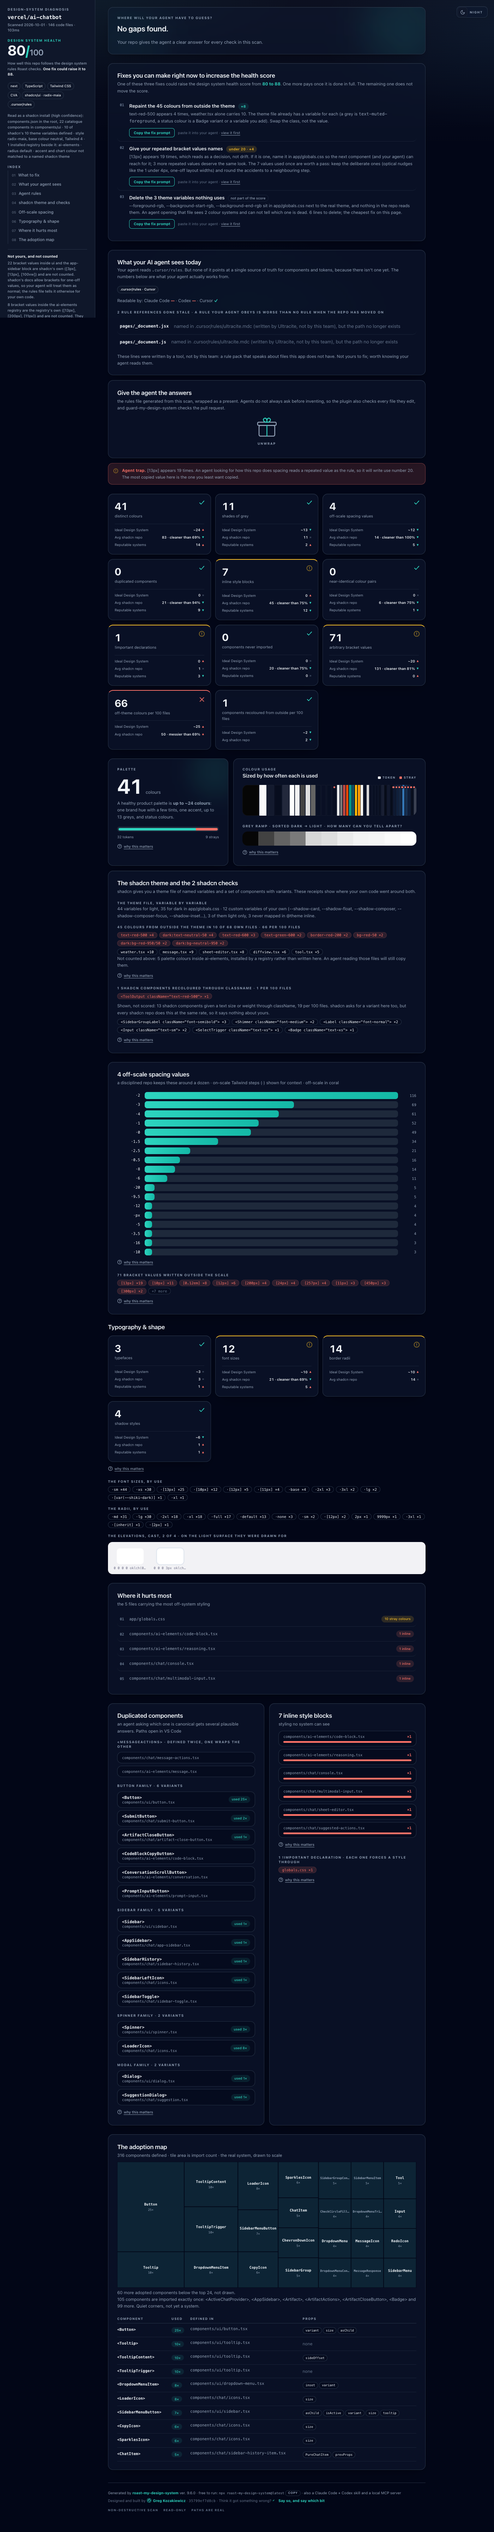
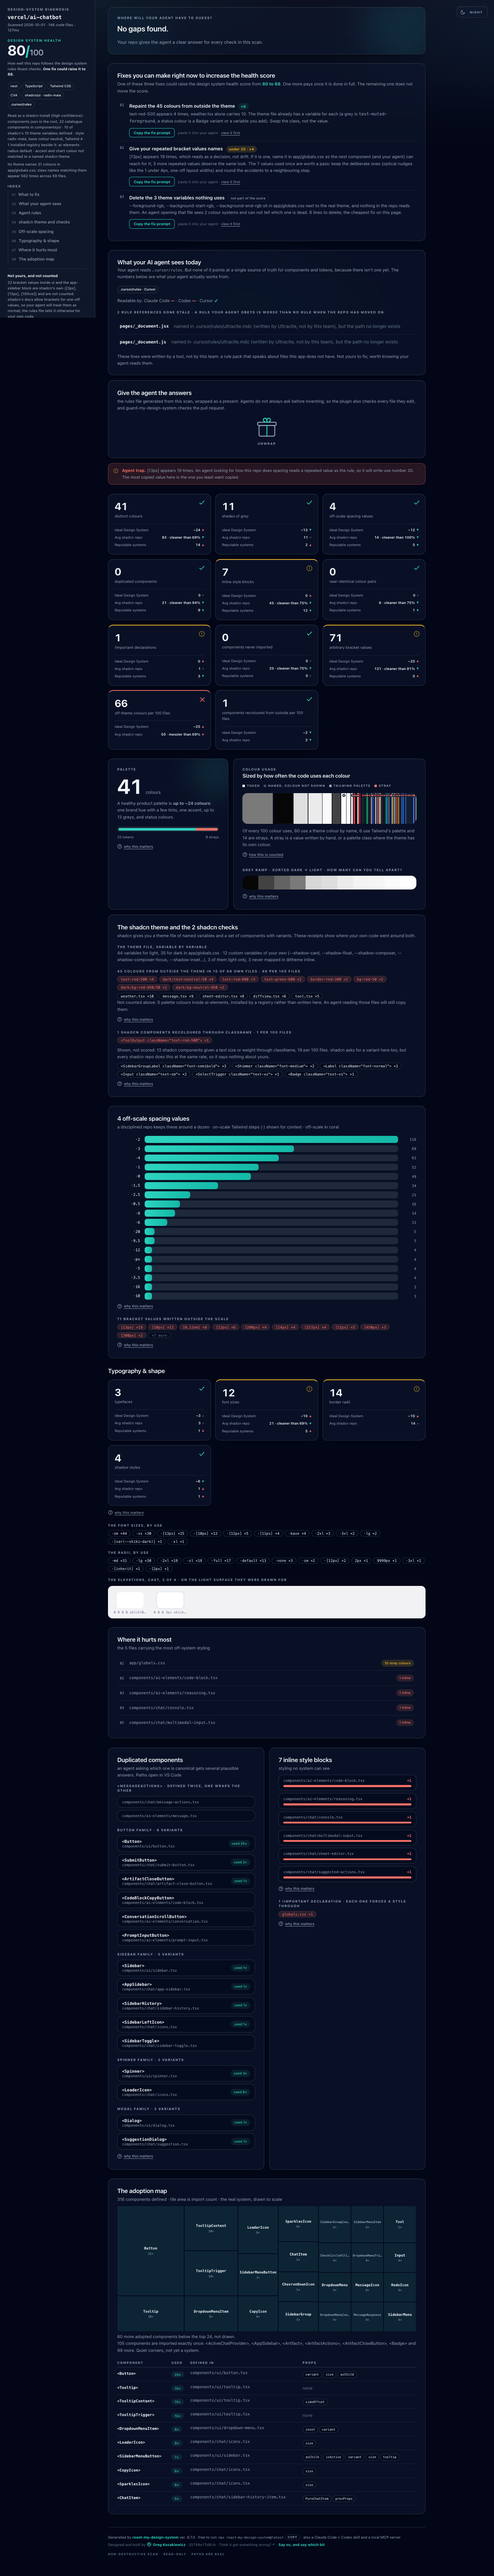
Screenshots reshot on 9.7.0: the colour bar counts uses, the shadcn receipt line

diff --git a/README.md b/README.md
@@ -142,11 +142,11 @@ Eleven reports, hosted exactly as the tool writes them. Every number determinist
 
 The full report for vercel/ai-chatbot. The verdict answers what the agent will learn here, the gap section comes first, then "What the repo teaches the agent", Claude's read of the scan:
 
-![The full diagnosis report for vercel/ai-chatbot in dark mode: a fixed side panel with the health score and what it measures, the stack, how the repo was read as a shadcn install, an index of every section and what is not the team's and not counted; then where the agent will have to guess, the fixes you can make right now, each with what it is worth and its copy-the-fix-prompt button, the wrapped present with the agent rules, an agent trap callout, 3-yardstick tiles including the 2 shadcn tiles, the adoption map treemap, palette forensics, the shadcn theme variable by variable, spacing receipts, typography specimens, offenders, duplicates, and the component usage ledger](assets/report-full-dark.png?v=9.6.0)
+![The full diagnosis report for vercel/ai-chatbot in dark mode: a fixed side panel with the health score and what it measures, the stack, how the repo was read as a shadcn install, an index of every section and what is not the team's and not counted; then where the agent will have to guess, the fixes you can make right now, each with what it is worth and its copy-the-fix-prompt button, the wrapped present with the agent rules, an agent trap callout, 3-yardstick tiles including the 2 shadcn tiles, the adoption map treemap, palette forensics, the shadcn theme variable by variable, spacing receipts, typography specimens, offenders, duplicates, and the component usage ledger](assets/report-full-dark.png?v=9.7.0)
 
 The same report in light mode (one file, built-in toggle):
 
-![The diagnosis report in light mode](assets/report-light-hero.png?v=9.6.0)
+![The diagnosis report in light mode](assets/report-light-hero.png?v=9.7.0)
 
 ## Why the numbers hold
 
